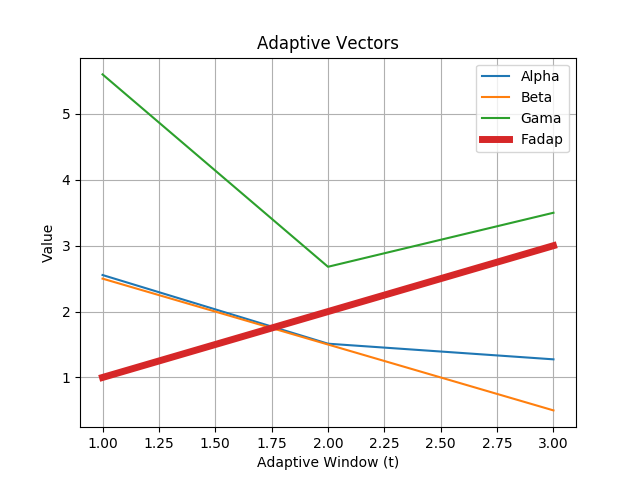
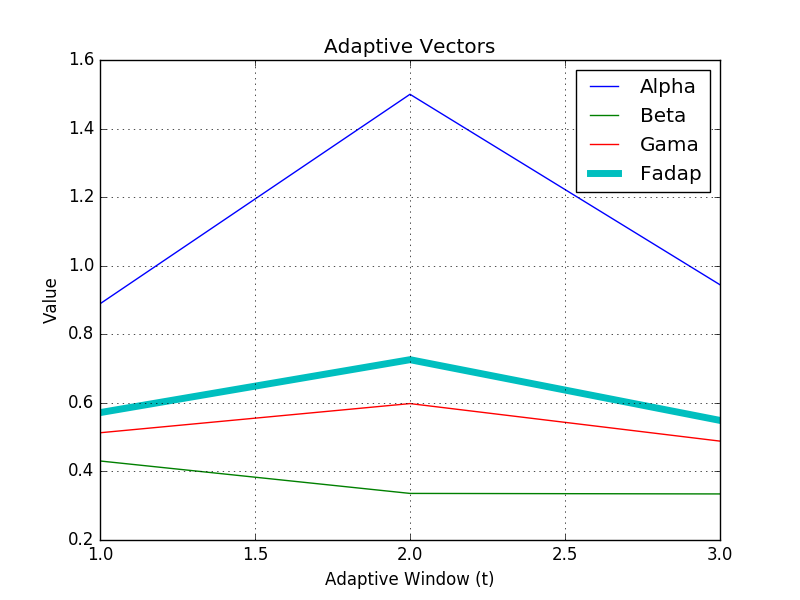
graph

diff --git a/Analysis/Adaptive/graph.py b/Analysis/Adaptive/graph.py
@@ -20,89 +20,132 @@ print vec
 """
 
 
-path = "../BKS/Log/AdaptiveLogs"
-
-namelist = os.listdir(path)
-
-#print nameflist
-
-data_list = []
-
-for name in namelist:
-	
-	if "vector" in name:
-		#data_list.append(name)
-		data_list.append( genfromtxt(path+'/'+name, delimiter=',', skip_header=0))
-		
-
-
-fadp= 0
-alpha=0
-beta= 0
-gama= 0
-
-
-frames = []
-
-
-
-for mat in data_list:
-	
-	for row in mat:
-		i=0
-		fadp+= row[1]
-		alpha+=row[2]
-		beta+= row[3]
-		gama+= row[4]
-		
-		#for j in range(1, len(item[i])):
-		#	print item[i][j]
-		
-	
-	print "new matrix"	
-
-exit()
-
-
-
-
-#print my_data
-my_data = np.transpose(my_data)
-#print my_data
-
-alpha = my_data[1]
-print alpha
-
-beta = my_data[2]
-print beta
-
-gama = my_data[3]
-print gama
-
-f = my_data[0]#0.5*alpha + 0.3*beta + 0.2*gama
-
-print f
-
-x = range(1,4)
-
-print x
-
-
-plt.plot(x,alpha, label='Alpha')
-plt.plot(x,beta, label='Beta')
-plt.plot(x,gama, label='Gama')
-plt.plot(x,f, label='Fadap', linewidth=5)
-
-#plt.legend(bbox_to_anchor=(1.05, 1), loc=2, borderaxespad=0.)
-plt.legend(bbox_to_anchor=(1,1), loc =1)
+class Window:
+    
+    def __init__(self, f, a, b, c):
+        self.f = f
+        self.a = a
+        self.b = b
+        self.c = c
 
 
 
 
 
-plt.xlabel('Adaptive Window (t)')
-plt.ylabel('Value')
-plt.title('Adaptive Vectors')
-plt.grid(True)
-plt.savefig("test.png")
-plt.show()
+def make(path = "../BKS/Log/AdaptiveLogs"):
+
+    
+
+    namelist = os.listdir(path)
+
+    #print nameflist
+
+    data_list = []
+
+    for name in namelist:
+            
+            if "vector" in name:
+                    #data_list.append(name)
+                    data_list.append( genfromtxt(path+'/'+name, delimiter=',', skip_header=0))
+                    
+
+
+    final = np.zeros((3,5))
+
+    for mat in data_list:
+                
+        
+        final+=mat
+        #print "Mat"
+        #print mat
+        #print "Final"
+        #print final
+        
+          
+        
+    final = final/len(data_list)    
+        
+        
+    my_data = np.transpose(final)
+        
+    print final   
+        
+          
+        
+    #print my_data
+    #my_data = np.transpose(my_data)
+    #print my_data
+
+    alpha = my_data[2]
+    #rint alpha
+
+    beta = my_data[3]
+    # print beta
+
+    gama = my_data[4]
+    #print gama
+
+    f = my_data[1]#0.5*alpha + 0.3*beta + 0.2*gama
+
+    #print f
+
+    x = range(1, len(f)+1)
+
+    #print x
+
+
+    plt.plot(x,alpha, label='Alpha')
+    plt.plot(x,beta, label='Beta')
+    plt.plot(x,gama, label='Gama')
+    plt.plot(x,f, label='Fadap', linewidth=5)
+
+    #plt.legend(bbox_to_anchor=(1.05, 1), loc=2, borderaxespad=0.)
+    plt.legend(bbox_to_anchor=(1,1), loc =1)
+
+
+
+
+
+    plt.xlabel('Adaptive Window (t)')
+    plt.ylabel('Value')
+    plt.title('Adaptive Vectors')
+    plt.grid(True)
+    plt.savefig("test.png")
+    plt.show()
+
+
+
+
+def users():
+    
+    av = [6.571428571, 3.285714286, 6.714285714, 6.857142857, 5.714285714, 6.857142857, 5.714285714]
+    sd = [0.7867957925, 1.799470822, 0.4879500365, 0.377964473, 0.9511897312, 0.377964473, 0.9511897312]
+
+    
+    
+    
+    x =  range(1,len(av)+1)
+    
+    plt.bar(x, av, width=0.35, align="center", yerr=sd, ecolor="red")
+    plt.title("Users average score by question")
+    plt.ylabel("Average users' score")
+    plt.xlabel("Question number")
+    plt.grid(True)
+    plt.xticks(x)
+
+    plt.show()
+
+
+
+
+
+
+
+
+
+
+    
+
+if __name__=="__main__":
+        #make()
+        users()
